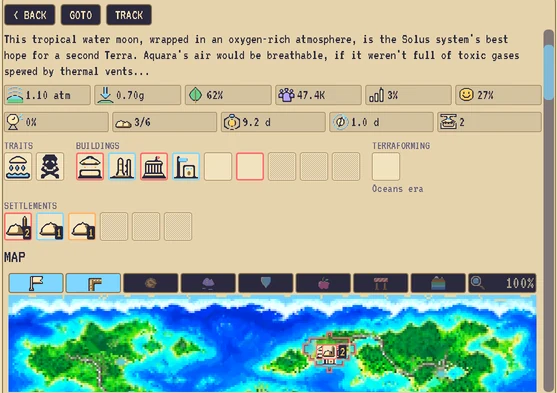
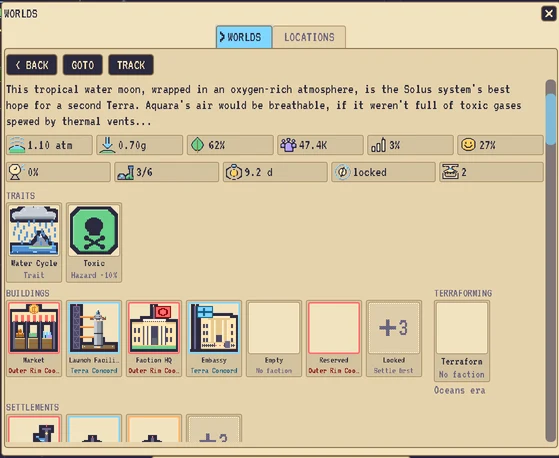
Landed and Aquara world page menus re-shot on v0.3.0-rc9

diff --git a/index.html b/index.html
@@ -101,9 +101,9 @@
     </section>
     <section class="feature flip">
       <div class="shot menu">
-        <img src="img/menu-landed-half.webp"
-             srcset="img/menu-landed-half.webp 549w, img/menu-landed.webp 1098w"
-             sizes="(max-width: 760px) 100vw, 600px" width="1098" height="858" loading="lazy"
+        <img src="img/menu-landed-half.webp?v=2"
+             srcset="img/menu-landed-half.webp?v=2 546w, img/menu-landed.webp?v=2 1092w"
+             sizes="(max-width: 760px) 100vw, 600px" width="1092" height="772" loading="lazy"
              alt="The Landed panel on Terra: the world map with its settlements, and buttons to launch, trade or stay">
       </div>
       <div>
@@ -114,9 +114,9 @@
     </section>
     <section class="feature">
       <div class="shot menu">
-        <img src="img/menu-aquara-half.webp"
-             srcset="img/menu-aquara-half.webp 557w, img/menu-aquara.webp 1114w"
-             sizes="(max-width: 760px) 100vw, 600px" width="1114" height="786" loading="lazy"
+        <img src="img/menu-aquara-half.webp?v=2"
+             srcset="img/menu-aquara-half.webp?v=2 559w, img/menu-aquara.webp?v=2 1118w"
+             sizes="(max-width: 760px) 100vw, 600px" width="1118" height="916" loading="lazy"
              alt="Aquara's world page twenty years in: its description and stats above a surface map of jungle islands, roads and a settlement">
       </div>
       <div>
